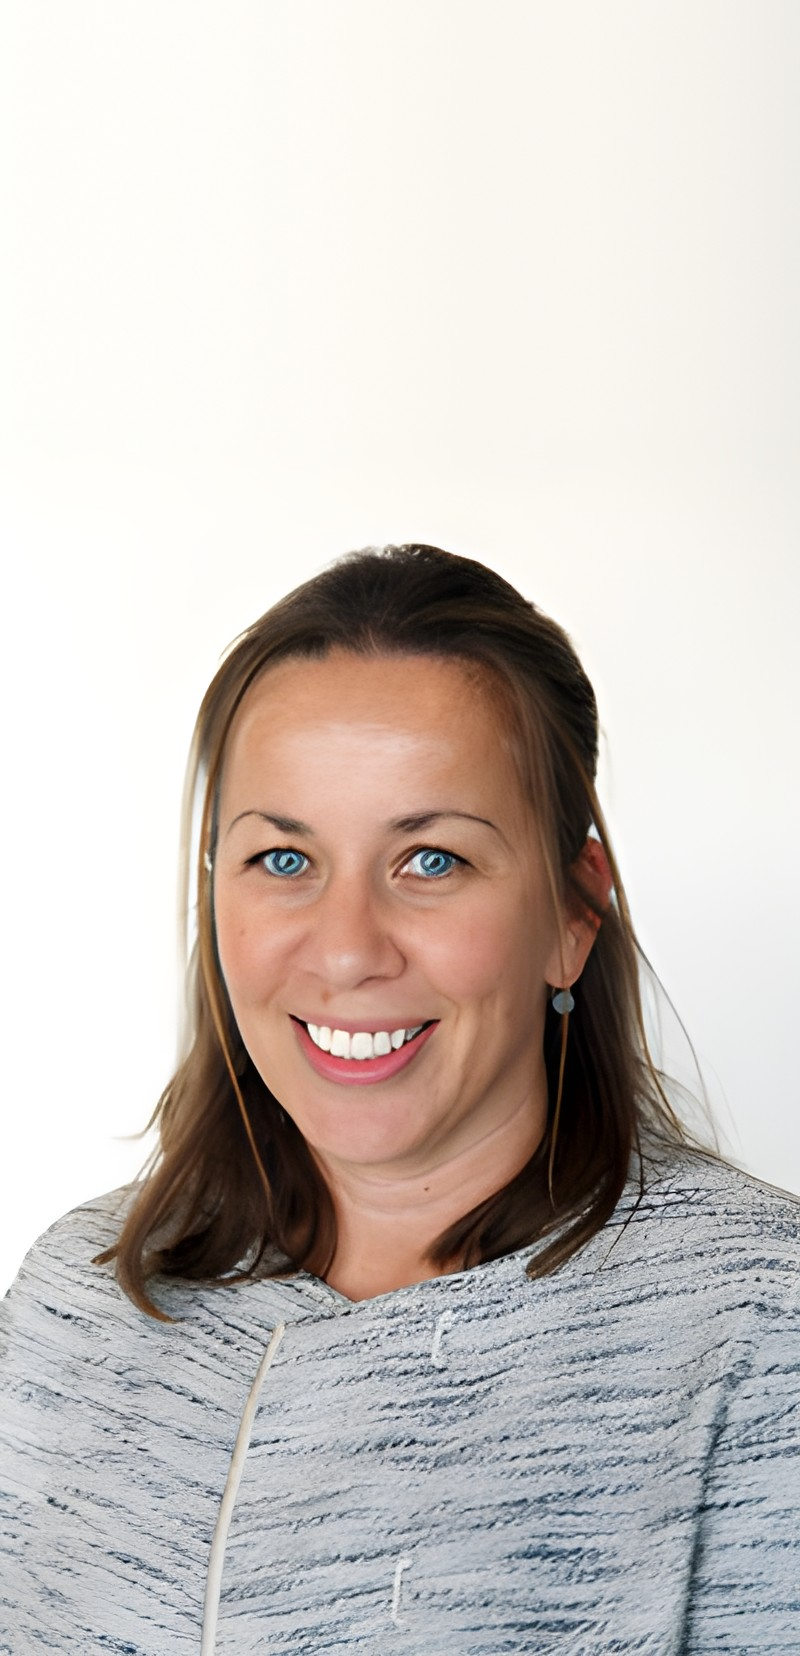
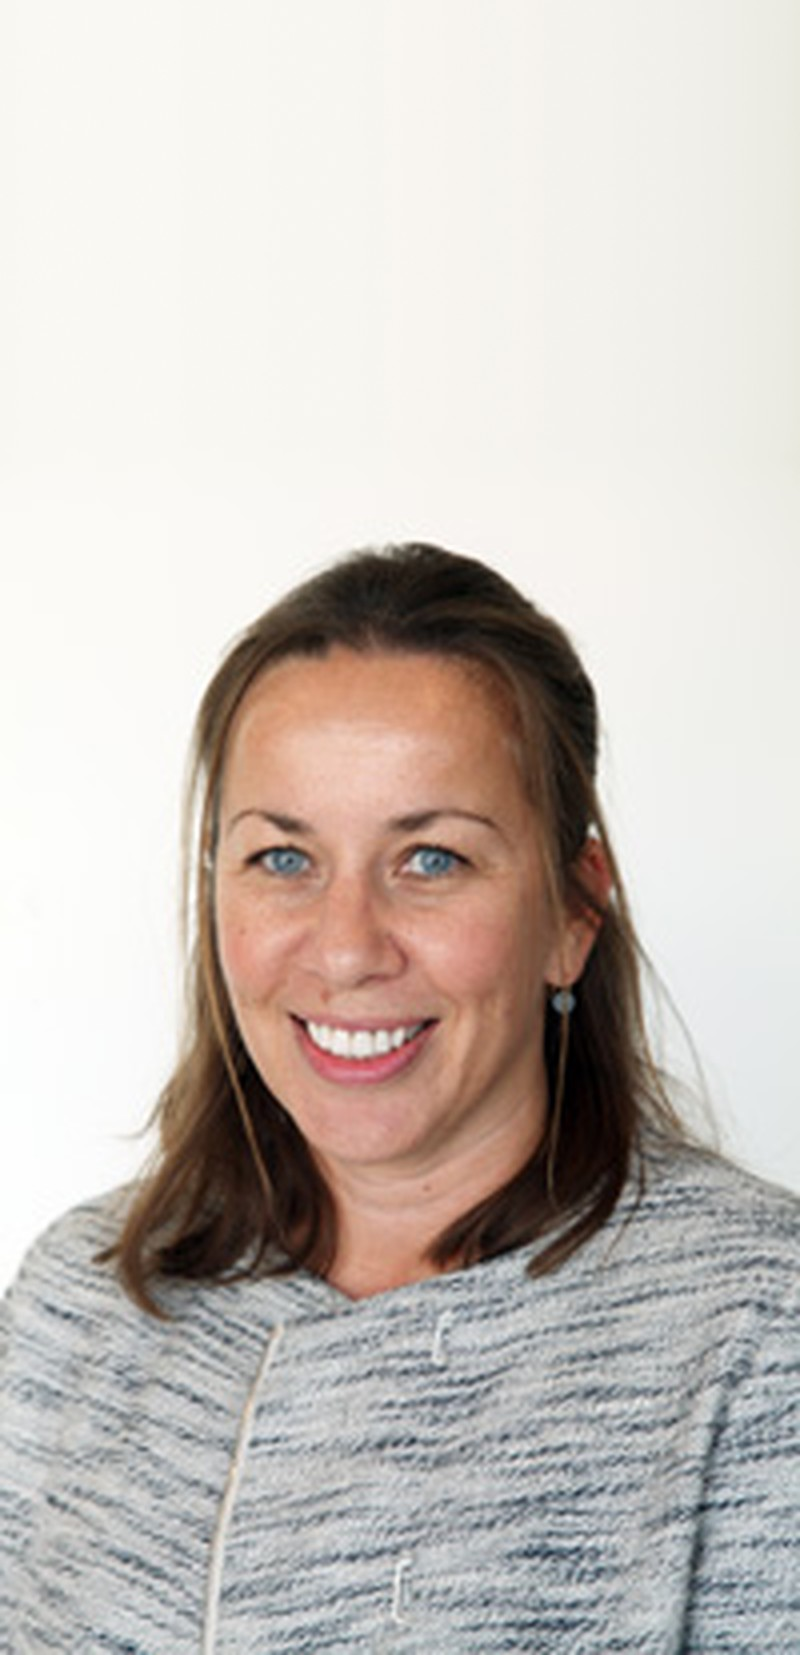
Commit the strip to the original photos
Dan judged the enhanced-vs-original A/B and chose the originals: tall/
now carries the untouched 200x300 sources lanczos-scaled into the same
extended frames, the toggle and the enhanced tall set are deleted, and
the pipeline README records the decision. Profile pages and avatars
keep the upscaled 800x1200 files.

diff --git a/src/components/sections/consultants/ConsultantFocusStrip.tsx b/src/components/sections/consultants/ConsultantFocusStrip.tsx
@@ -1,6 +1,6 @@
 "use client";
 
-import { useEffect, useState } from "react";
+import { useState } from "react";
 import Image from "next/image";
 import Link from "next/link";
 
@@ -106,32 +106,12 @@ function Card({ c }: { c: FocusConsultant }) {
   );
 }
 
-const PHOTO_KEY = "bop-strip-photos";
-
 export default function ConsultantFocusStrip({
   consultants,
 }: {
   consultants: FocusConsultant[];
 }) {
   const [active, setActive] = useState(3);
-  const [photoSet, setPhotoSet] = useState<"enhanced" | "original">("enhanced");
-
-  useEffect(() => {
-    const saved = window.localStorage.getItem(PHOTO_KEY);
-    if (saved === "enhanced" || saved === "original") setPhotoSet(saved);
-  }, []);
-
-  const pickSet = (s: "enhanced" | "original") => {
-    setPhotoSet(s);
-    window.localStorage.setItem(PHOTO_KEY, s);
-  };
-
-  /** Same frames, different pixels: tall-original/ holds the untouched
-      200×300 sources lanczos-scaled into identical geometry. */
-  const tallSrc = (c: FocusConsultant) =>
-    photoSet === "original"
-      ? c.photoTall.replace("/tall/", "/tall-original/")
-      : c.photoTall;
 
   return (
     <div>
@@ -140,29 +120,6 @@ export default function ConsultantFocusStrip({
           the slivers stay wide enough that the extended-headroom portraits
           keep the whole face in frame. ─────────────────────────────────── */}
       <div className="hidden lg:block">
-        {/* Photo-quality review toggle — remove once judged. */}
-        <div className="mb-2 flex items-center justify-end gap-2 px-6">
-          <span className="text-[10px] font-medium uppercase tracking-[0.1em] text-ink-muted">
-            Photos
-          </span>
-          <div className="inline-flex overflow-hidden border border-ink/10 bg-white/80 text-[10px] font-medium uppercase tracking-[0.1em]">
-            {(["enhanced", "original"] as const).map((s) => (
-              <button
-                key={s}
-                type="button"
-                onClick={() => pickSet(s)}
-                aria-pressed={photoSet === s}
-                className={`px-2.5 py-1 transition-colors ${
-                  photoSet === s
-                    ? "bg-ink text-white"
-                    : "text-ink-muted hover:text-ink"
-                }`}
-              >
-                {s}
-              </button>
-            ))}
-          </div>
-        </div>
         <div className="flex h-[clamp(440px,50svh,560px)] gap-[3px] border-y border-ink/[0.08]">
           {consultants.map((c, i) => {
             const open = i === active;
@@ -188,7 +145,7 @@ export default function ConsultantFocusStrip({
                   }}
                 >
                   <Image
-                    src={tallSrc(c)}
+                    src={c.photoTall}
                     alt={open ? `${c.name}, ${c.shortRole}` : ""}
                     fill
                     sizes="16vw"

diff --git a/scripts/photo-pipeline/README.md b/scripts/photo-pipeline/README.md
@@ -1,23 +1,27 @@
 # Consultant photo pipeline
 
 The site's consultant portraits started as 200×300 crops from the practice's
-old site. Two scripts turned them into the assets now in `public/consultants/`:
+old site. What ships now:
 
-1. **upscale.py** — Real-ESRGAN x4plus (official weights, restoration CNN — no
-   generative reinvention of faces) takes each 200×300 original to 800×1200.
-   Those 800×1200 files replaced `public/consultants/*.jpg` directly.
-2. **normalize.py** — builds `public/consultants/tall/*.jpg` for the
-   /consultants focus strip: detects each face (OpenCV YuNet), then extends the
-   studio backdrop *upward* by a per-image amount chosen so every face renders
-   whole (≤88px) in a 92px sliver with hair apexes on one line (~33% of frame).
-   Backgrounds are continued procedurally (per-column colour + matched noise;
-   reflection-tiled + graded blur for the one textured backdrop) — nothing is
-   invented over people, only backdrop above heads.
+- **`public/consultants/*.jpg`** (800×1200) — Real-ESRGAN x4plus upscales of
+  the originals (via `upscale.py`; restoration CNN, no generative reinvention
+  of faces). Used by the profile pages and every small avatar.
+- **`public/consultants/tall/*.jpg`** — the focus-strip frames: per-portrait
+  top extension sized so every face renders whole in a 92px sliver with hair
+  apexes on one line (~33% of frame), built by `normalize.py`. **Dan reviewed
+  an enhanced-vs-original A/B (2026-08-09) and chose the ORIGINAL pixels for
+  the strip** — so these frames carry the untouched originals lanczos-scaled
+  into the extended geometry, not the Real-ESRGAN output. Detection still runs
+  on the enhanced files so the framing is deterministic.
 
-To rerun: python venv with torch, opencv-python-headless, pillow, numpy; the
-RealESRGAN_x4plus.pth weights (67 MB, e.g. huggingface.co/leonelhs/realesrgan)
-and yunet.onnx (opencv_zoo) next to the scripts; originals in `upscaled/`
-resp. the source dir paths at the top of each script.
+Backgrounds are continued procedurally (per-column colour + matched noise;
+reflection-tiled graded blur for the one textured backdrop) — nothing is
+invented over people, only backdrop above heads.
 
-If the practice ever supplies proper photography, delete `tall/`, drop the new
-photos into `public/consultants/`, and rerun only normalize.py.
+To rerun: python venv with opencv-python-headless, pillow, numpy (plus torch
+and the RealESRGAN_x4plus.pth weights — e.g. huggingface.co/leonelhs/realesrgan
+— only if re-running `upscale.py`); yunet.onnx (opencv_zoo) next to the
+scripts; source dir paths at the top of each script.
+
+If the practice ever supplies proper photography, drop the new photos into
+`public/consultants/`, rerun `normalize.py`, and delete this whole dance.
